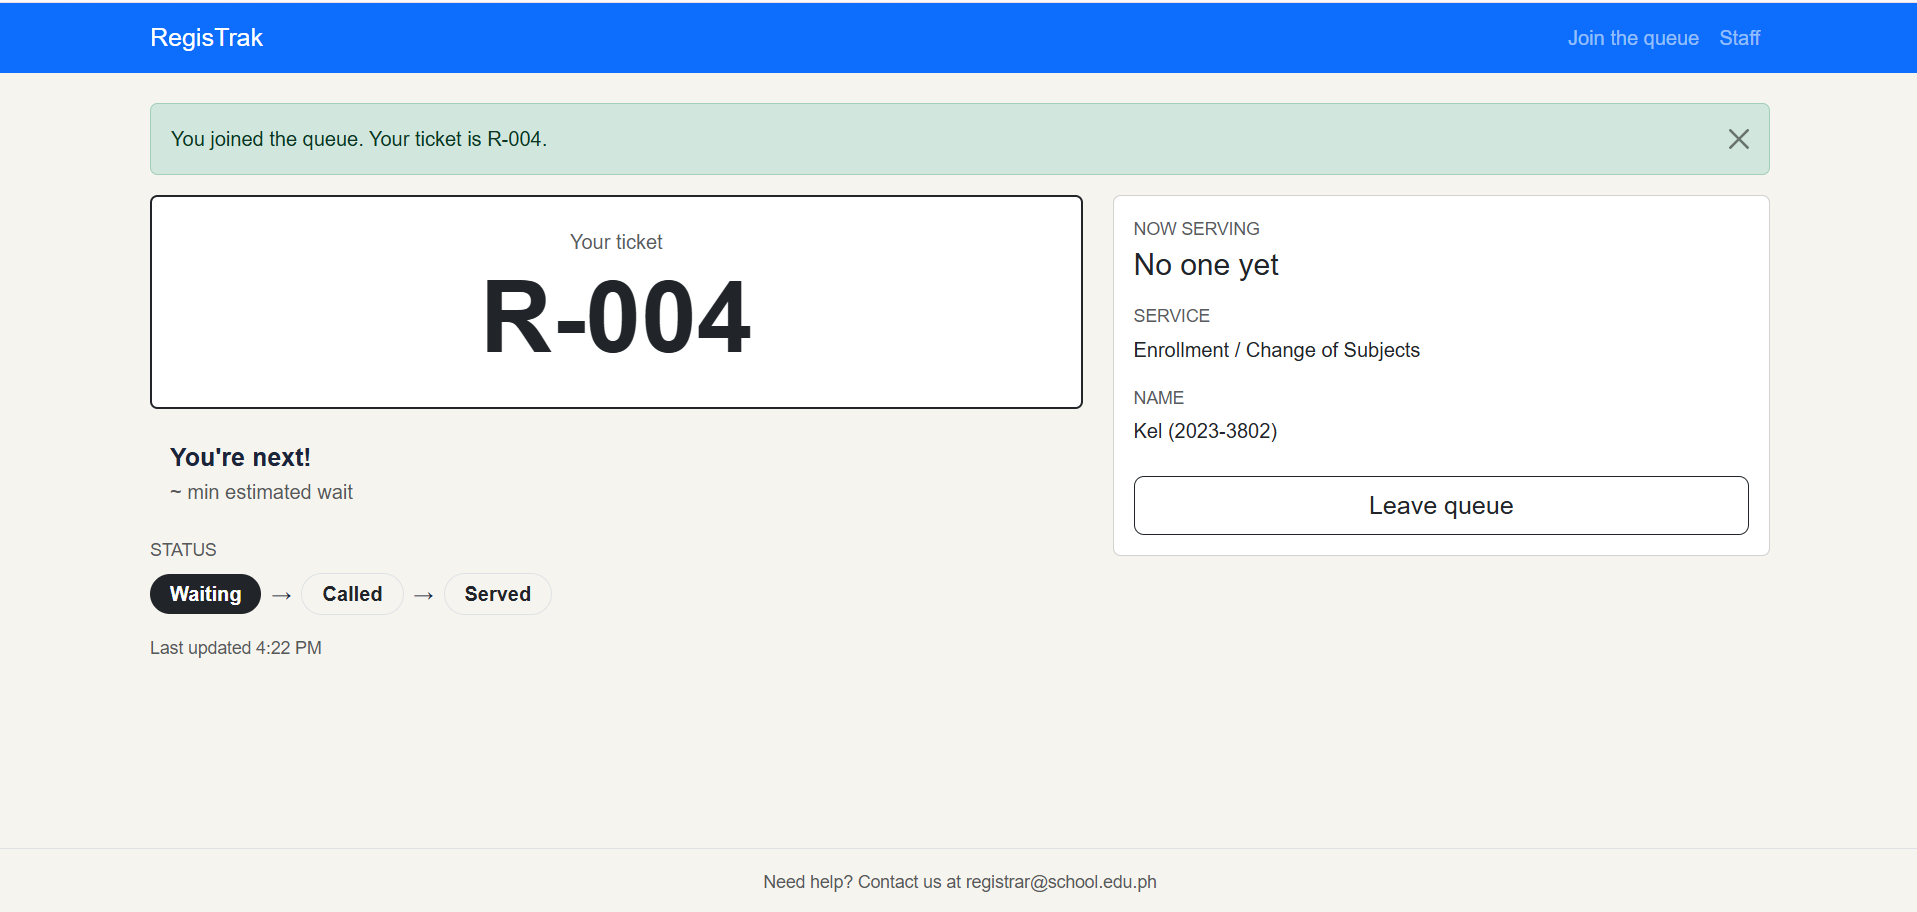
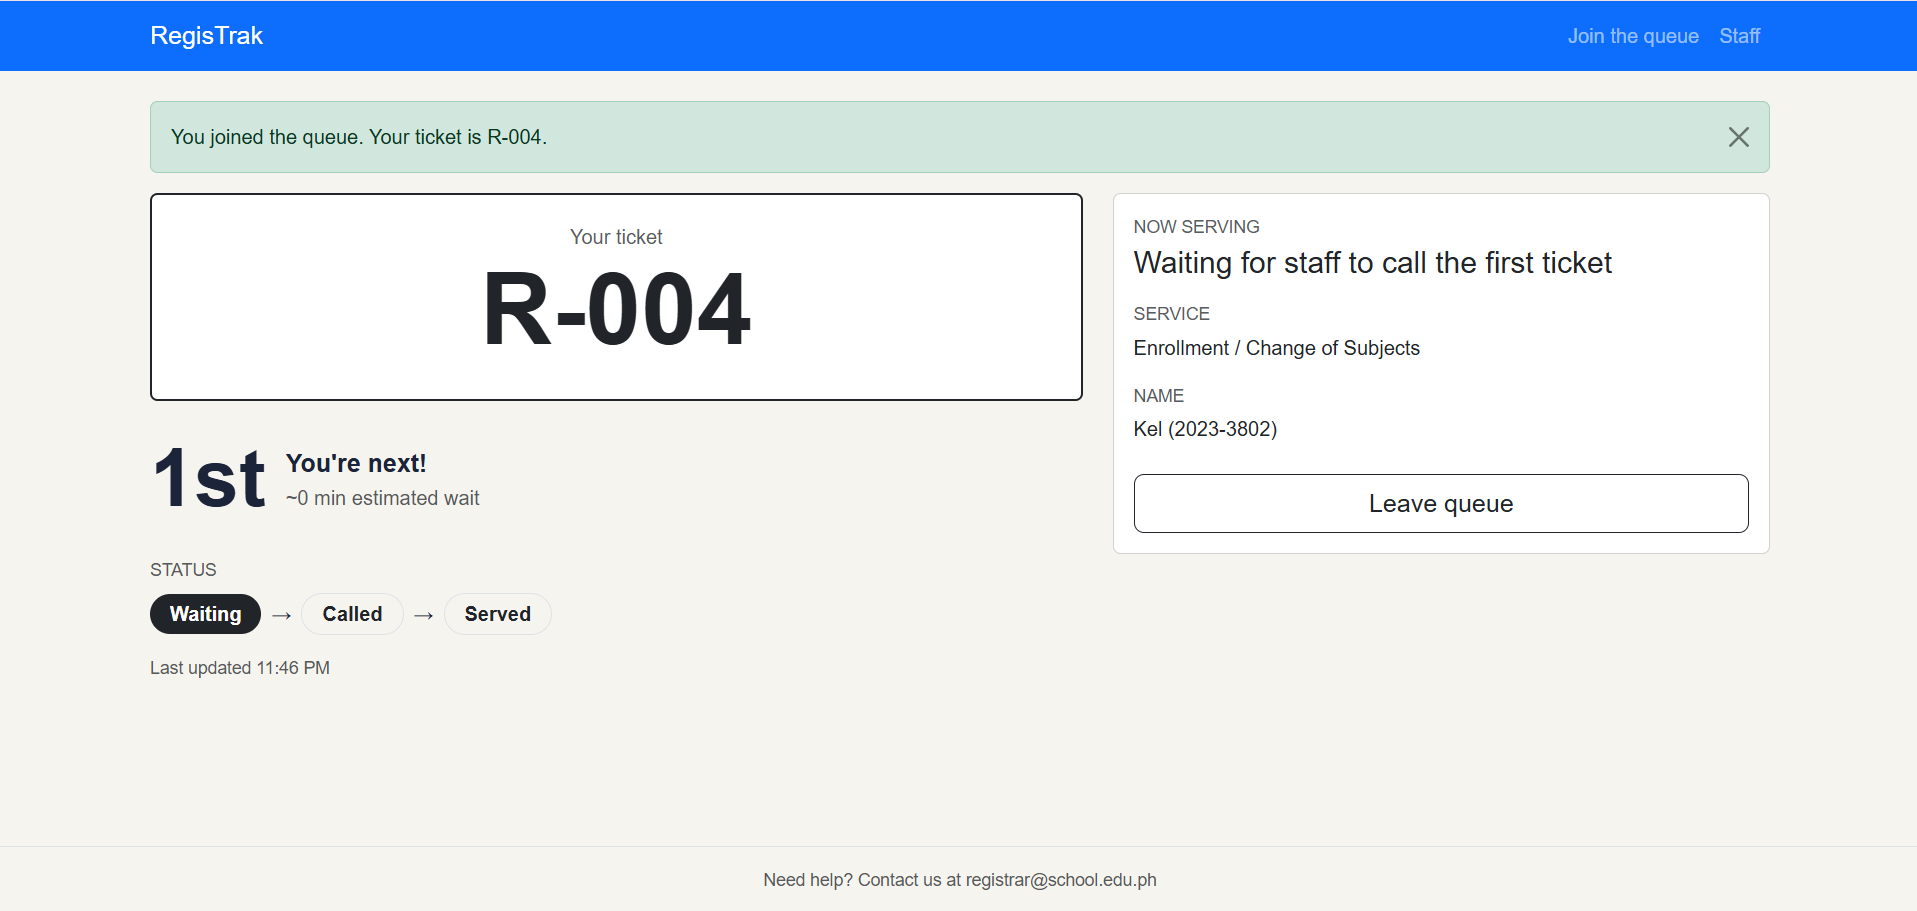
Fix the screenshots and report.md

diff --git a/docs/week3/report.md b/docs/week3/report.md
@@ -15,7 +15,7 @@
 Full details: [personas.md](personas.md)
 
 **Gon, the student waiting** (22, 4th-year Computer Science student)
-- Quote: "There's no need to line up. I can wait or pay in the cashier while virtually lining up in registrar..." (paste the full quote from personas.md)
+- Quote: "There's no need to line up. I can wait or pay in the cashier while virtually lining up in registrar"
 - Top tasks: join a queue (FR-01), check queue number and status (FR-02), get a notification when the turn is near (FR-03).
 
 **Killua, the registrar staff member** (MSU-IIT registrar office)
